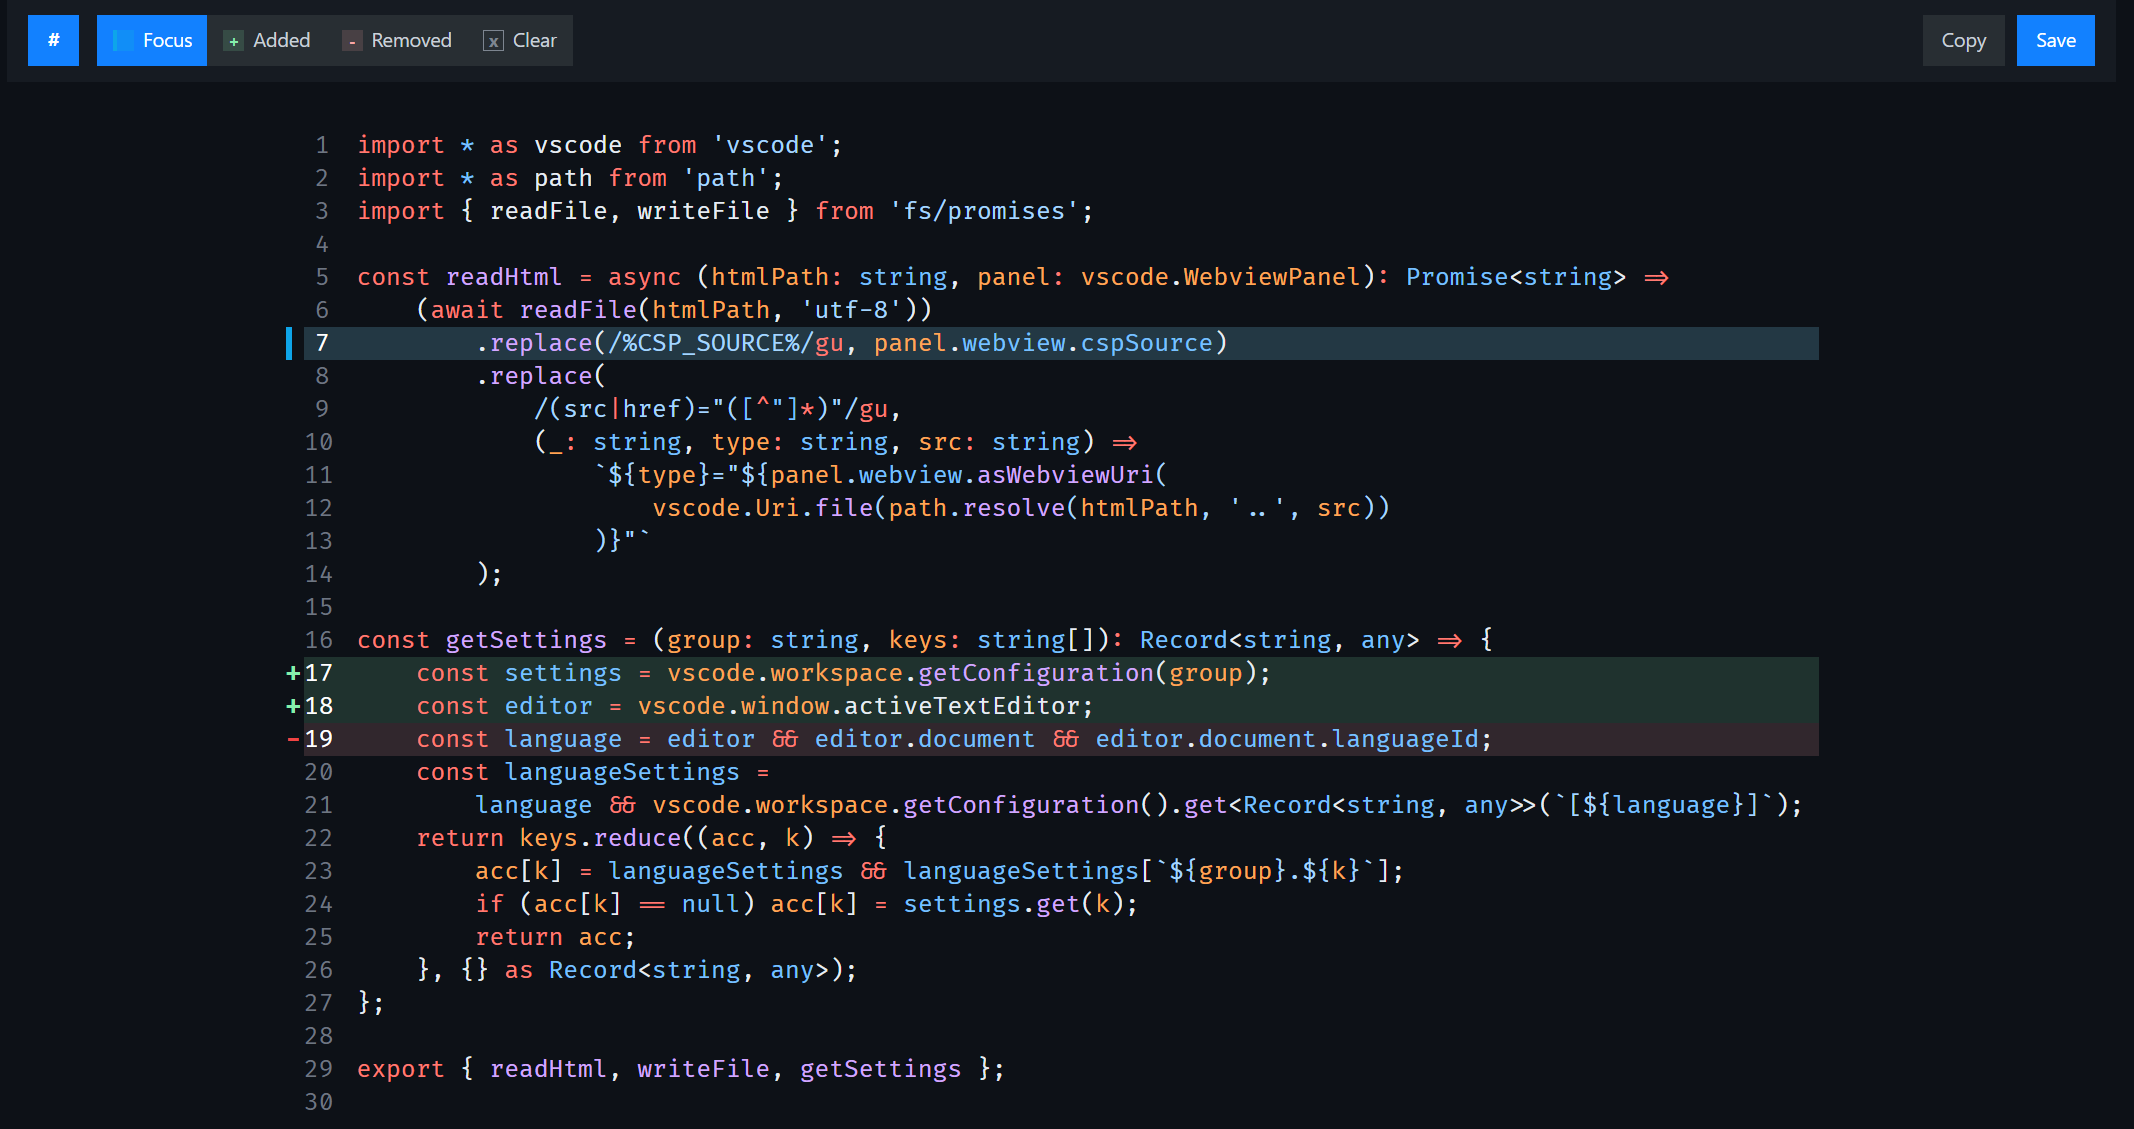
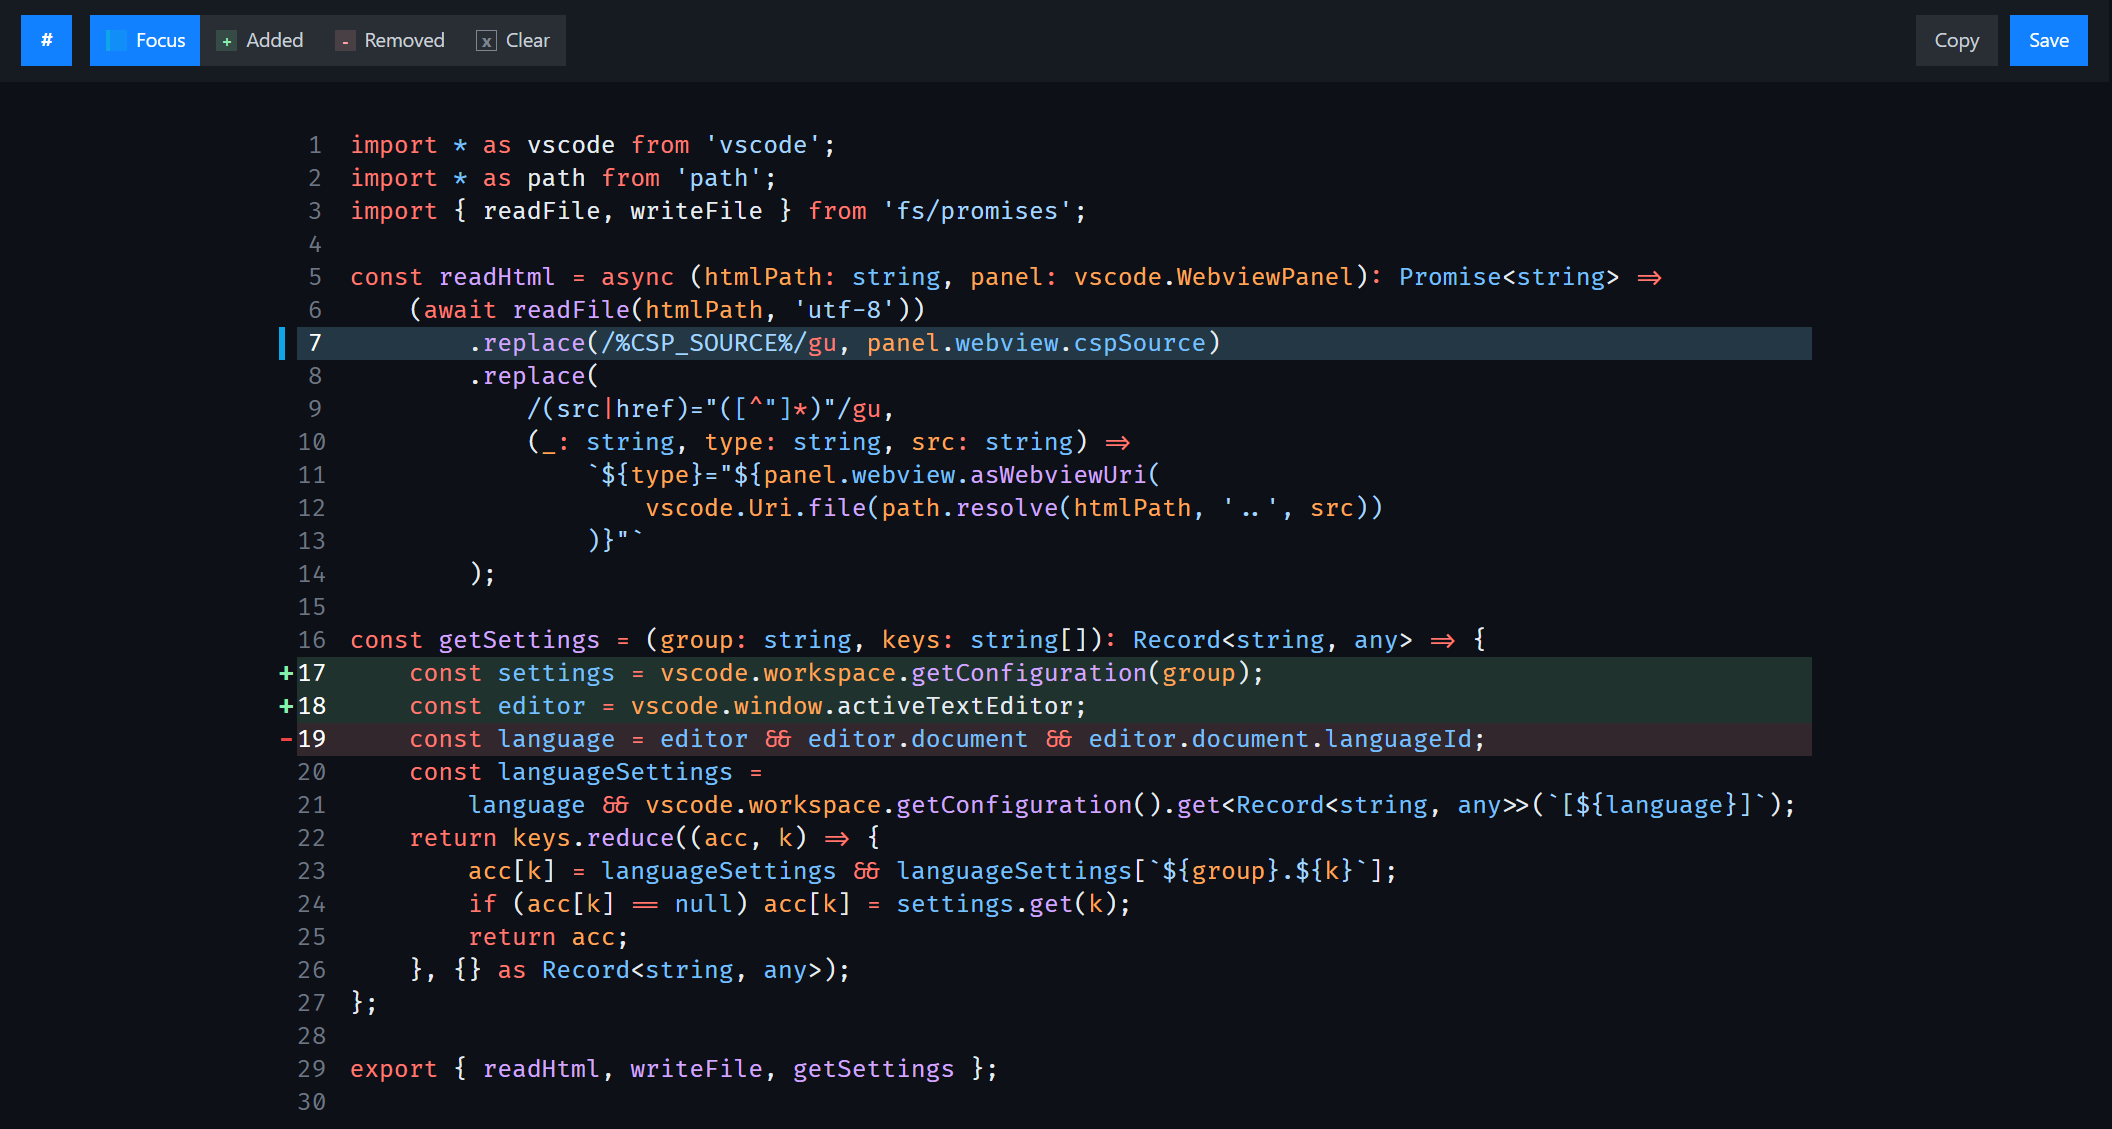
update showcase

diff --git a/README.md b/README.md
@@ -14,7 +14,7 @@ And you can highlight the line just by clicking the line number.
 
 <!-- /TOC -->
 
-![UI](https://raw.githubusercontent.com/veritas-arch/codesnap-neo/main/image/showcase.png)
+![UI](https://raw.githubusercontent.com/veritas-arch/codesnap-neo/main/image/showcase_test.png)
 
 ## Features
 